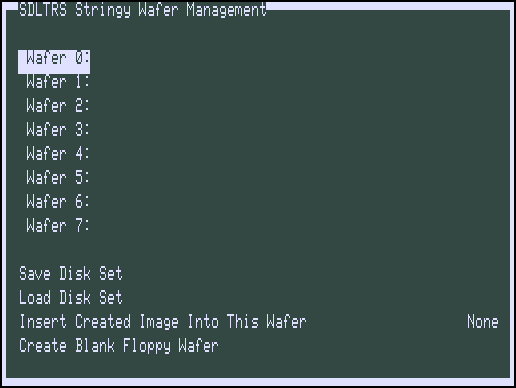
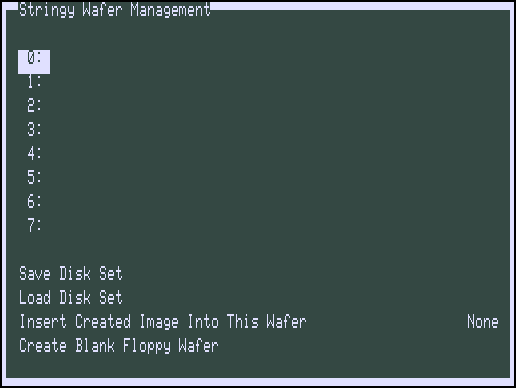
Update documentation and images

Changed region(s): [[0.031, 0.1237, 0.186, 0.6186], [0.031, 0.0, 0.5271, 0.0619]]

diff --git a/html/TextGUI.html b/html/TextGUI.html
@@ -30,7 +30,6 @@
   <li><a href="#Display_Settings">Display Settings</a></li>
   <li><a href="#Miscellaneous_Settings">Miscellaneous Settings</a></li>
   <li><a href="#ConfigurationState">Configuration/State Files</a></li>
-  <li><a href="#Printer_Management">Printer Management</a></li>
   <li><a href="#Joystick_Settings">Joystick Settings</a></li>
   <li><a href="#Default_Directories">Default Directories</a></li>
   <li><a href="#ROM_File_Selection">ROM File_Selection</a></li>
@@ -45,10 +44,11 @@ through the menu items using the arrow keys. The <b>Home</b> and <b>End</b>
 keys moves to the first or last menu item. Typing the first letter of a menu
 item marks it for selection. Pressing a number key from <b>0</b> to <b>9</b>
 jumps to the line in the menu. A menu item may be selected by pressing the
-<b>Enter</b>, <b>Space</b> or <b>Tab</b> key when the item is highlighted.
-Pressing <b>ESC</b> moves up a menu level (or exits the GUI if you are at the
-top level). Besides entering the GUI using <b>F7</b> or <b>Alt-M</b>, submenus
-may be entered by using the key shortcuts shown after the menu items.</p>
+<b>Enter</b>, <b>Insert</b>, <b>Space</b> or <b>Tab</b> key when the item is
+highlighted. Pressing <b>BackSpace</b> or <b>ESC</b> moves up a menu level
+(or exits the GUI if you are at the top level). Besides entering the GUI using
+<b>F7</b>, <b>Alt-Comma</b> or <b>Alt-M</b>, submenus may be entered by using
+the key shortcuts shown after the menu items.</p>
 
 <h2><a name="Floppy_Disk_Management"></a><u>Floppy Disk Management</u></h2>
 
@@ -61,10 +61,9 @@ new disk images, and set emulated disk drive options.</p>
 <p>For the first 8 options in the menu, there are three options:</p>
 
 <ul>
-  <li>Hitting <b>Enter</b> or <b>Tab</b> while the item is selected, will
-      move to the image selection screen, which is explained below.</li>
-  <li>Hitting <b>Backspace</b> or <b>Delete</b> will remove a disk image if
-      there is one in the drive.</li>
+  <li>Hitting <b>Enter</b>, <b>Insert</b> or <b>Tab</b> while the item
+      is selected, will move to the disk image selection screen.</li>
+  <li>Hitting <b>Delete</b> will remove a disk image in the drive.</li>
   <li>Hitting <b>Space</b> will toggle the write protect for the drive.
       The indicator for write protect is an asterisk "*" in front of the
       "Disk" in the menu item.</li>
@@ -145,11 +144,10 @@ create new disk images.</p>
 <p>For the first 4 options in the menu, there are three options:</p>
 
 <ul>
-  <li>Hitting <b>Enter</b> or <b>Tab</b> while the item is selected, will
-      move to the image selection screen, which is explained above in the
-      floppy disk section.</li>
-  <li>Hitting <b>Backspace</b> or <b>Delete</b> will remove a disk image if
-      there is one in the drive.</li>
+  <li>Hitting <b>Enter</b>, <b>Insert</b> or <b>Tab</b> while the item is
+      selected, will move to the image selection screen, which is explained
+      above in the floppy disk section.</li>
+  <li>Hitting <b>Delete</b> will remove a disk image in the drive.</li>
   <li>Hitting <b>Space</b> will toggle the write protect for the drive.
       The indicator for write protect is an asterisk "*" in front of the
       "Hard" in the menu item.</li>
@@ -191,11 +189,10 @@ images into the emulated drive, as well as create new cassette images.</p>
 <p>For the first option in the menu, there are three options:</p>
 
 <ul>
-  <li>Hitting <b>Enter</b> or <b>Tab</b> while the item is selected, will
-      move to the image selection screen, which is explained above in the
-      floppy disk section.</li>
-  <li>Hitting <b>Backspace</b> or <b>Delete</b> will remove a cassette image
-      if there is one in the drive.</li>
+  <li>Hitting <b>Enter</b>, <b>Insert</b> or <b>Tab</b> while the item is
+      selected, will move to the image selection screen, which is explained
+      above in the floppy disk section.</li>
+  <li>Hitting <b>Delete</b> will remove a cassette image in the drive.</li>
   <li>Hitting <b>Space</b> will toggle the write protect for the cassette.
       The indicator for write protect is an asterisk "*" in front of the
       "Cass" in the menu item.</li>
@@ -226,11 +223,10 @@ create new wafer images with default parameters.</p>
 <p>For the first 8 options in the menu, there are three options:</p>
 
 <ul>
-  <li>Hitting <b>Enter</b> or <b>Tab</b> while the item is selected, will
-      move to the image selection screen, which is explained above in the
-      floppy disk section.</li>
-  <li>Hitting <b>Backspace</b> or <b>Delete</b> will remove a wafer image if
-      there is one in the drive.</li>
+  <li>Hitting <b>Enter</b>, <b>Insert</b> or <b>Tab</b> while the item is
+      selected, will move to the image selection screen, which is explained
+      above in the floppy disk section.</li>
+  <li>Hitting <b>Delete</b> will remove a wafer image in the drive.</li>
   <li>Hitting <b>Space</b> will toggle the write protect for the wafer.
       The indicator for write protect is an asterisk "*" in front of the
       "Wafer" in the menu item.</li>
@@ -238,7 +234,7 @@ create new wafer images with default parameters.</p>
 
 <h2><a name="Emulator_Settings"></a><u>Emulator Settings</u></h2>
 
-<p><img alt="" src="images/ModelMenu.png"></p>
+<p><img alt="" src="images/EmulatorMenu.png"></p>
 
 <h3>Model:</h3>
 
@@ -250,14 +246,6 @@ create new wafer images with default parameters.</p>
 but use this with CAUTION: overclocking the Z80 will result in all forms of
 "timing-errors"!</p>
 
-<h3>Exatron Stringy Floppy:</h3>
-
-<p>Emulates up to 8 Stringy Floppy Drives for the TRS-80 Model I.</p>
-
-<h3>Lowercase:</h3>
-
-<p>Emulate a "Lowercase Modification Kit" for the TRS-80 Model I.</p>
-
 <h3>Speedup Kit Emulation:</h3>
 
 <p>Selects the speed-up modification for the TRS-80 Model I: <b>None</b>,
@@ -266,6 +254,14 @@ some memory banking for CP/M on I/O-port <code>0xFE</code>. <b>LNW80</b>
 sets the CPU clock to 4 MHz and enables banking for the 480*192 HRG in the
 lower 16 KB. Select <b>TCS SpeedMaster</b> for this enhanced Model I clone
 running at 5.35 MHz, with 480*192 HRG and memory banking for CP/M.
+
+<h3>Exatron Stringy Floppy:</h3>
+
+<p>Emulates up to 8 Stringy Floppy Drives for the TRS-80 Model I.</p>
+
+<h3>Lowercase:</h3>
+
+<p>Emulate a "Lowercase Modification Kit" for the TRS-80 Model I.</p>
 
 <h3>Graphics Emulations:</h3>
 
@@ -371,7 +367,12 @@ the scanlines can be adjusted from 0 (= dark) to 255 (= light).</p>
 
 <p><img alt="" src="images/MiscMenu.png"></p>
 
-<h3>Emtsafe:</h3>
+<h3>Close and Reopen Printer Output File:</h3>
+
+<p>Selecting this option will cause the printer output file to be closed, and
+the next file will be automatically created.</p>
+
+<h3>Emulator Traps Safe:</h3>
 
 <p>Turn on/off ability for emts (Emulation traps) to write to unexpected
 places in the host filesystem.</p>
@@ -387,6 +388,13 @@ program to see another key transition. Key transitions that are received
 during the waiting period or when the Z80 program is not reading the
 keyboard are held in a queue. The default stretch value is 4000 cycles; it
 should seldom if ever be necessary to change it.</p>
+
+<h3>Printer Type:</h3>
+
+<p>Controls the type of printer emulation that is used for outputting to the
+TRS-80 printer: <b>None</b> and <b>Text</b>.
+<b>Text</b> simply sends the printer output to a text file (automatically
+created from <code>trsprn0000.txt</code> to <code>trsprn9999.txt</code>).</p>
 
 <h3>Serial Port Name:</h3>
 
@@ -462,24 +470,6 @@ href="Features.html#Configuration_Files">Features</a> page.</p>
 <p>This menu item allows you load a Configuration file (<code>.t8c</code>)
 previous saved with the Save Configuration command.</p>
 
-<h2><a name="Printer_Management"></a><u>Printer Management</u></h2>
-
-<p><img alt="" src="images/PrinterMenu.png"></p>
-
-<h3>Close and Reopen Printer Output File:</h3>
-
-<p>Selecting this option will cause the printer output file to be closed, and
-the printer command to be executed using the file name.</p>
-
-<h3>Printer Type:</h3>
-
-<p>Controls the type of printer emulation that is used for outputting to the
-TRS-80 printer: <b>None</b> and <b>Text</b>.</p>
-
-<p><b>Text</b> simply sends the printer output to a text file (automatically
-created from <code>trsprn0000.txt</code> to <code>trsprn9999.txt</code>)
-with optional script processing.</p>
-
 <h2><a name="Joystick_Settings"></a><u>Joystick Settings</u></h2>
 
 <p><img alt="" src="images/JoystickMenu.png"></p>
@@ -516,7 +506,7 @@ Home/End may be used to scroll through the list of directories. Pressing
 <b>Enter</b> on the &lt;..&gt; item will take you to the parent directory. On
 Windows, the Drive letters are listed as the last items in the menu, and you
 can change drives by pressing <b>Enter</b> on those items. The directory is
-selected by pressing the <b>Tab</b> key.</p>
+selected by pressing the <b>Insert</b> or <b>Tab</b> key.</p>
 
 <p><img alt="" src="images/DirectorySelect.png"></p>
 

diff --git a/html/Features.html b/html/Features.html
@@ -110,27 +110,27 @@ type <code>help</code> for more information.</p>
   </tr>
   <tr>
     <td><b>F5</b> or <b>ScrollLock</b></td>
-    <td>TRS-80 @ key (F5 key for EG 3200)</td>
+    <td>TRS-80 @ key or F5 key</td>
   </tr>
   <tr>
     <td><b>F6</b></td>
-    <td>TRS-80 shifted '0' (F6 key for EG 3200)</td>
+    <td>TRS-80 shifted '0' or F6 key</td>
   </tr>
   <tr>
     <td><b>F7</b></td>
-    <td>Main Menu (F7 key for EG 3200)</td>
+    <td>Main Menu or F7 key</td>
   </tr>
   <tr>
     <td><b>Shift-F7</b></td>
-    <td>Emulator Settings (Shifted F7 key for EG 3200)</td>
+    <td>Emulator Settings or Shifted F7 key</td>
   </tr>
   <tr>
     <td><b>F8</b></td>
-    <td>Quit SDLTRS (F8 key for EG 3200)</td>
+    <td>Quit SDLTRS or F8 key</td>
   </tr>
   <tr>
     <td><b>Shift-F8</b></td>
-    <td>Abort SDLTRS (Shifted F8 key for EG 3200)</td>
+    <td>Abort SDLTRS or Shifted F8 key</td>
   </tr>
   <tr>
     <td><b>F9</b></td>
@@ -169,6 +169,10 @@ type <code>help</code> for more information.</p>
     <td>Toggle numeric keypad as joystick emulation</td>
   </tr>
   <tr>
+    <td><b>1</b> - <b>6</b> (on the numeric keypad)</td>
+    <td>P1 - P5 and ESC for TCS Genie IIIs</td>
+  </tr>
+  <tr>
     <td><b>ESC</b></td>
     <td>TRS-80 Break key</td>
   </tr>
@@ -202,19 +206,27 @@ type <code>help</code> for more information.</p>
   </tr>
   <tr>
     <td><b>Page Up</b></td>
-    <td>TRS-80 Left Shift key (address bit 7, data bit 0)</td>
+    <td>TRS-80 Left Shift key</td>
   </tr>
   <tr>
     <td><b>Page Down</b></td>
-    <td>TRS-80 Right Shift key (address bit 7, data bit 1)</td>
+    <td>TRS-80 Right Shift key</td>
   </tr>
   <tr>
     <td><b>Insert</b></td>
-    <td>TRS-80 Underscore key (address bit 3, data bit 7)</td>
+    <td>TRS-80 Underscore key</td>
   </tr>
   <tr>
     <td><b>Shift-Up Arrow</b></td>
     <td>TRS-80 ESC key</td>
+  </tr>
+  <tr>
+    <td><b>Shift-Page Up</b></td>
+    <td>Switch to slow Z80 CPU clock speed</td>
+  </tr>
+  <tr>
+    <td><b>Shift-Page Down</b></td>
+    <td>Switch to fast Z80 CPU clock speed</td>
   </tr>
   <tr>
     <td><b>Alt-Delete</b></td>
@@ -392,7 +404,7 @@ directory as the executable named <code>sdltrs.t8c</code>.</p>
 <p>SDLTRS provides a Text based menuing system that allows you to most aspect
 of emulator operation (more info on the <a href="TextGUI.html">Text GUI</a>
 page). The Text GUI is entered by pressing <b>F7</b> or <b>Alt-M</b>, and
-exited by using the <b>ESC</b> key.</p>
+exited by using the <b>BackSpace</b> or <b>ESC</b> key.</p>
 
 <p>A picture of the top level menu of the GUI is below:</p>
 
